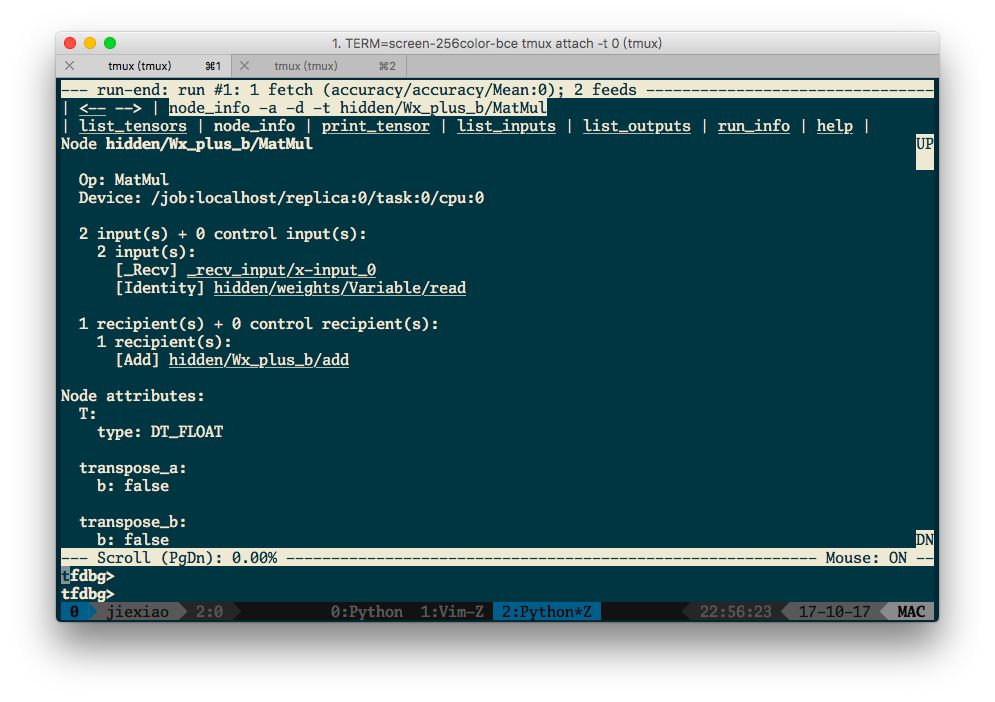
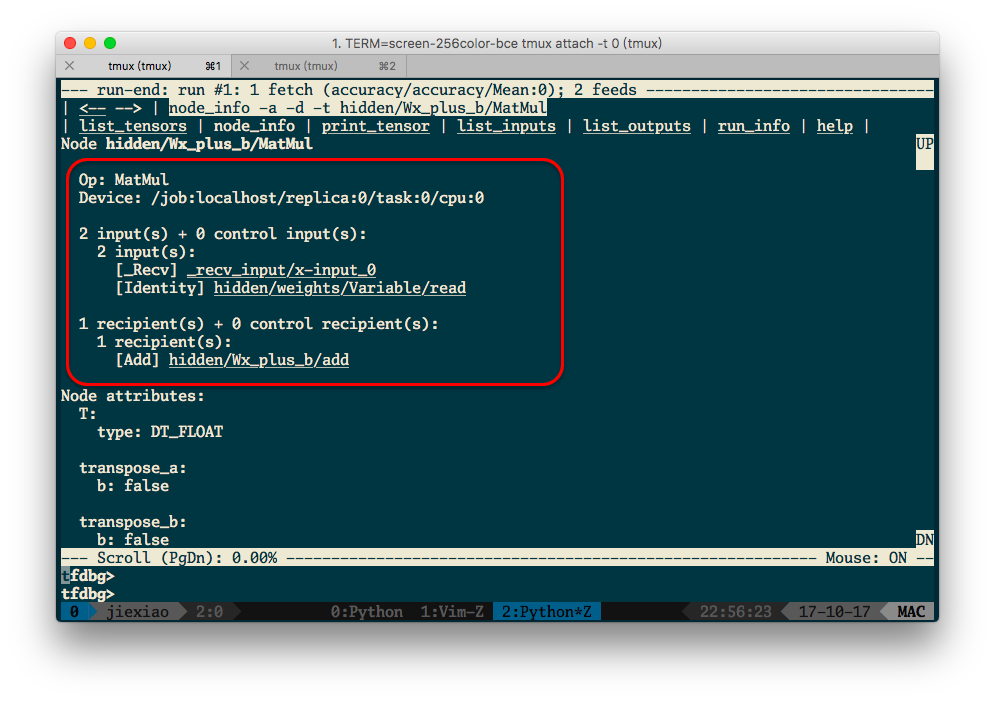
完成 tfdbg 使用

diff --git a/source/_posts/Tensorflow-tfdbg.md b/source/_posts/Tensorflow-tfdbg.md
@@ -76,14 +76,45 @@ python -m tensorflow.python.debug.examples.debug_mnist --debug
 
 
 ## node_info
+### 输入及输出信息
 点击 ``hidden/Wx_plus_b/MatMuls:0`` 后默认显示的就是上一小节提到的 ``print_tensor``，此时我们可以点击 ``node_info``，点击后显示以下信息：
+![node_info](/images/Tensorflow-tfdbg/Tensorflow-tfdbg_4.png)
+红框中的信息包括：1、MatMul 操作通过 cpu 执行 2、两个操作数分别为训练的输入数据 ``x-input`` 和表示权重的 ``Variable`` 3、输出的结果被用于加法操作
+### 调用栈信息
+此时可以按 ``pagedown`` 向下滑动，查看代码调用栈：
+![callstack](/images/Tensorflow-tfdbg/Tensorflow-tfdbg_5.png)
+清晰的展示出，``main`` 函数调用了 ``nn_layer`` 函数，然后执行了 87 行的 MatMuls 操作，同时，如果不清楚库函数定义所在的文件，也可以在这里找到。
+### 当前代码行对应的其他 Tensor/Option
+此时，可以点击 ``Line:  87``, 就可以看到 87 行相关的其他 Tensor/Option 的信息了
+![other_tensor](/images/Tensorflow-tfdbg/Tensorflow-tfdbg_6.png)
+``nn_layer`` 一共被调用了两次，且 87 行包含了两个操作 （MatMuls、add）, 所以一共是四个 Option 信息，此时，点击 ``softmax/Wx_plus_b/MatMuls:0`` 可以看到以下信息：
+![list_inputs](/images/Tensorflow-tfdbg/Tensorflow-tfdbg_7.png)
 
 ## list_inputs
+点击 ``list_inputs`` 可以看到 ``softmax/Wx_plus_b/MatMuls:0`` 详细输入：
+![list_inputs](/images/Tensorflow-tfdbg/Tensorflow-tfdbg_8.png)
+可以看出，``softmax/Wx_plus_b/MatMuls:0`` 的左操作数是 ``hidden/Relu``， 右操作数是 ``softmax/weights/Variable/read``，``hidden/Relu`` 只有一个操作数 ``hidden/Wx_plus_b/add``, 依次类推，可以查看计算 ``softmax/Wx_plus_b/MatMuls:0`` 的每一步操作
 
 ## list_outputs
+点击 ``list_outputs`` 可以看到 ``softmax/Wx_plus_b/MatMuls:0`` 的输出的详细用途：
+![list_output](/images/Tensorflow-tfdbg/Tensorflow-tfdbg_9.png)
+首先，输出被用于 ``softmax/Wx_plus_b/MatMuls``，依次类推，最终被用于加权平均
 
 ## run_info
+点击 ``run_info`` 可以看到以下信息：
+![run_info](/images/Tensorflow-tfdbg/Tensorflow-tfdbg_10.png)
+这里可以点击红框部分查看训练 / 测试样本的输入 / 输出
 
-## 单步运行
+# 单步运行
+输入 ``s`` 就可以但不调试了，``s -t 10`` 可以执行 10 步，需要注意的是，一定是执行 ``run`` 命令后才可以执行 ``s`` 命令
+![step](/images/Tensorflow-tfdbg/Tensorflow-tfdbg_11.png)
 
-## 理解记忆调试命令
+# 理解记忆调试命令
+鼠标点击能查看的信息毕竟有限，直接看 help 又不好理解，好在 tfdbg 中始终会显示当前显示信息所对应的命令：
+![step](/images/Tensorflow-tfdbg/Tensorflow-tfdbg_13.png)
+很明显 ``pt`` 就表示 ``print_tensor``，如果需要了解 ``pt`` 的更多参数，就可以执行 ``help pt``
+![step](/images/Tensorflow-tfdbg/Tensorflow-tfdbg_12.png)
+我们可以试试 ``pt -a accuracy/accuracy/Cast:0``
+![step](/images/Tensorflow-tfdbg/Tensorflow-tfdbg_14.png)
+
+
